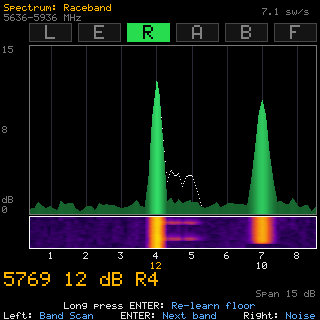
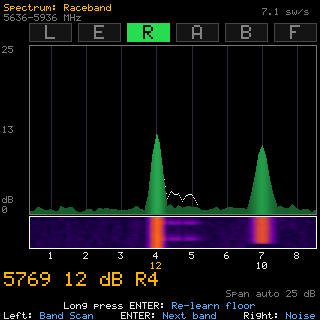
Span 25-50 with auto range by default, Auto Range page, span on every page (revision 102)
Span 25-50 dB (default 25) with Auto range On by default. New Auto Range
Configuration page: Auto range, Hold time and Drop step for how the scale
comes back down (never below the span). The span is shown on Activity,
Spectrum and Band Scan; with Auto range On as "Span auto 70 dB (min 25)".
Configuration title bars show the firmware revision. Screenshots regenerated.

Claude-Session: https://claude.ai/code/session_019ySrNfXnGwibRSQT1orRxf

diff --git a/FPV Channel Scanner/Settings.cpp b/FPV Channel Scanner/Settings.cpp
@@ -1,6 +1,6 @@
 /*
  * FPV Channel Scanner - Settings.cpp
- * Revision: 101
+ * Revision: 102
  *
  * User settings: the values, their limits and defaults, loading them from
  * flash at start-up and saving them, plus helpers that depend on them.
@@ -15,7 +15,7 @@
 
 // Defaults here must match the "def" column of the table below.
 Settings cfg = {
-  15,    // span
+  25,    // span
   4,     // learnSweeps
   3,     // gridSamples   (1 when RSSI only is Off)
   4,     // specStep
@@ -50,9 +50,11 @@ Settings cfg = {
   MAX_MHZ_OFF,  // maxMhz
   TUNE_WIFI,    // tuneMode
   16,           // rxFilterMhz
-  0,            // specAutoRange
+  1,            // specAutoRange
   BS_LBL_BAND,  // bsLabel
   1,            // restorePage
+  5,            // rangeHoldS
+  10,           // rangeDropDb
 };
 
 const SettingDef SETTINGS[] = {
@@ -80,14 +82,16 @@ const SettingDef SETTINGS[] = {
   { "Channel Selection", "IMD min spacing",     "imdSep",    &cfg.imdMinSep,    20,  80,  1, 37, 0, 0, " MHz", "Smallest gap allowed between channels in a set" },
   { "Channel Selection", "IMD use L band",      "imdLow",    &cfg.imdLowBand,    0,   1,  1,  0, 1, 0, "",     "Allow L1-L8 (not used with a video system)" },
   { "Channel Selection", "IMD refresh",   "imdRefresh", &cfg.imdRefreshS,     2,    60,    1,   10, 0, 0, " s",  "How often IMD-free sets are re-picked" },
-  { "Display", "Span",            "span",      &cfg.span,          5,  60,  5, 15, 0, 0, " dB",  "Activity full brightness, Spectrum height" },
-  { "Display", "Auto range",      "specAuto",  &cfg.specAutoRange, 0,  1,  1,  0, 1, 0, "",     "Activity, Spectrum, Band Scan fit peaks" },
+  { "Display", "Span",            "span",      &cfg.span,         25,  50,  5, 25, 0, 0, " dB",  "Activity full brightness, Spectrum height" },
   { "Display", "Peak labels",     "bsLabel",   &cfg.bsLabel,    BS_LBL_BAND, BS_LBL_BOTH, 1, BS_LBL_BAND, 0, 0, "", "Band Scan: label on peaks over Busy level" },
   { "Display", "Peak decay",      "peakDecay", &cfg.peakDecay10,   2, 100,  2, 18, 0, 1, " px",  "Spectrum: peak-hold dot fall per sweep" },
   { "Display", "Waterfall log",   "wfLog",     &cfg.wfLogK,        0,  20,  1,  8, 0, 0, "",     "Spectrum waterfall: 0 = linear, higher = log" },
   { "Display", "Shading gamma",   "gamma",     &cfg.gamma100,     20, 100,  5, 55, 0, 2, "",     "Noise grid: below 1 brightens small diffs" },
   { "Display", "Full red spread", "redSpread", &cfg.redSpread10,   1,  50,  1,  5, 0, 1, " dB",  "Noise grid: spread shown as full red" },
   { "Display", "Move fade",     "moveFade",   &cfg.moveFadeMs,      0, 10000,  250, 3000, 0, 0, " ms", "Quietest/IMD: red fade on a moved channel" },
+  { "Auto Range", "Auto range",   "specAuto",   &cfg.specAutoRange, 0,     1,    1,    1, 1, 0, "",    "Activity, Spectrum, Band Scan fit peaks" },
+  { "Auto Range", "Hold time",    "rangeHold",  &cfg.rangeHoldS,     1,    60,    1,    5, 0, 0, " s",  "No higher peak this long: scale drops" },
+  { "Auto Range", "Drop step",    "rangeDrop",  &cfg.rangeDropDb,    5,    50,    5,   10, 0, 0, " dB", "How far each drop is (stops at the span)" },
   { "Controls", "Long press",    "longPress",  &cfg.longPressMs,   300, 2000,  100,  700, 0, 0, " ms", "ENTER held this long = long press" },
   { "Controls", "Config hold",   "cfgHold",    &cfg.configHoldMs, 2000, 10000, 1000, 5000, 0, 0, " ms", "Left + Right held this long opens Configuration" },
   { "Controls", "Splash time",   "splashMs",   &cfg.splashMs,        0, 10000,  500, 5000, 0, 0, " ms", "How long the start-up splash shows (0 = none)" },
@@ -180,6 +184,7 @@ bool settingVisible(int i) {
   const int *v = SETTINGS[i].value;
   if (v == &cfg.hdzLowBand || v == &cfg.hdzE1F1) return cfg.vidSys == VS_HDZERO;
   if (v == &cfg.djiModel)    return cfg.vidSys == VS_DJI;
+  if (v == &cfg.rangeHoldS || v == &cfg.rangeDropDb) return cfg.specAutoRange;   // only with Auto range On
   if (v == &cfg.wsRace)      return cfg.vidSys == VS_WALKSNAIL;
   if (v == &cfg.fccChannels) return (cfg.vidSys == VS_DJI && cfg.djiModel != DJI_O4_RACE) ||
                                     (cfg.vidSys == VS_WALKSNAIL && !cfg.wsRace);

diff --git a/FPV Channel Scanner/Page Band Scan.cpp b/FPV Channel Scanner/Page Band Scan.cpp
@@ -1,6 +1,6 @@
 /*
  * FPV Channel Scanner - Page Band Scan.cpp
- * Revision: 101
+ * Revision: 102
  *
  * Band Scan page, modelled on the ArduVidRx band scanner: one sweep over
  * the whole 5.3-6.0 GHz band, measuring every FPV channel frequency plus
@@ -142,7 +142,7 @@ static void bsDrawAxis() {
 
 // Same vertical scale as the spectrum: the Span setting (bars above it clip
 // at the top), or with "Auto range" On at least the span, growing at once to
-// fit the highest bar and shrinking one step after SPEC_RANGE_HOLD_MS.
+// fit the highest bar and shrinking one step after "Hold time" (Auto Range page).
 // ---------------------------------------------------------------- waterfall
 // Same look as the Spectrum page's (shared colour ramp and "Waterfall log"
 // curve, scaled by the span): one row per sweep, newest on top, each bar's
@@ -167,6 +167,8 @@ static void wfDrawBs() {
   }
 }
 
+int bsRangeNow() { return bsRange; }
+
 static bool bsUpdateRange(float maxAbove) {
   int need = cfg.span;
   if (cfg.specAutoRange && maxAbove > need) need = min(SPEC_RANGE_MAX, ((int)ceilf(maxAbove / SPEC_RANGE_STEP)) * SPEC_RANGE_STEP);
@@ -174,11 +176,12 @@ static bool bsUpdateRange(float maxAbove) {
   int old = bsRange;
   if (!cfg.specAutoRange) bsRange = need;                // fixed at the span
   else if (need >= bsRange) { bsRange = need; bsRangeNeedMs = now; }
-  else if (now - bsRangeNeedMs >= SPEC_RANGE_HOLD_MS) {
-    bsRange = max(need, bsRange - SPEC_RANGE_STEP); bsRangeNeedMs = now;
+  else if (now - bsRangeNeedMs >= (uint32_t)cfg.rangeHoldS * 1000) {
+    bsRange = max(need, bsRange - cfg.rangeDropDb); bsRangeNeedMs = now;
   }
   if (bsRange == old) return false;
   bsDrawAxis();
+  drawSpanLabel();                                     // footer, bottom right
   return true;
 }
 
@@ -309,6 +312,7 @@ static void bsDrawFooter(int peakPt, float aboveDb) {
   snprintf(s, sizeof(s), "Peak: %s%s%u MHz %d dB", names, names[0] ? " " : "",
            bsMhz[peakPt], (int)lroundf(aboveDb));
   lcdText(4, BS_FOOT_Y + 2, s, 2, C_ACC, C_BG);
+  drawSpanLabel();                                     // bottom right, as on Activity and Spectrum
 }
 
 // True if the frequency is a channel (not a fill-in point): one of the

diff --git a/FPV Channel Scanner/Page Activity.cpp b/FPV Channel Scanner/Page Activity.cpp
@@ -1,6 +1,6 @@
 /*
  * FPV Channel Scanner - Page Activity.cpp
- * Revision: 101
+ * Revision: 102
  *
  * FPV Channel Activity page (the live grid) and the grid sweep that
  * also feeds the Channel Noise and Quietest Channels pages.
@@ -52,6 +52,10 @@ void gridDrawFooter(int pb, int pc, float aboveDb) {
   }
   drawSpanLabel();
 }
+
+static int      gridRange = 0;          // Activity brightness scale top, dB (span, or auto range)
+static uint32_t gridRangeNeedMs = 0;
+int gridRangeNow() { return gridRange; }
 
 // One full grid sweep + redraw of changed cells.
 // Runs on the GRID and ACTIVITY pages; both share the measurement and floor.
@@ -137,17 +141,18 @@ void gridSweep() {
 
   // Brightness scale: the span, or with "Auto range" On at least the span,
   // growing at once to fit the strongest box (rounded up to 10 dB) and
-  // shrinking one step after SPEC_RANGE_HOLD_MS, as on the Spectrum page.
-  static int gridRange = 0;
-  static uint32_t gridRangeNeedMs = 0;
-  { int need = cfg.span;
+  // shrinking one step after "Hold time" (Auto Range page), as on the Spectrum page.
+  { int before = gridRange;
+    int need = cfg.span;
     if (cfg.specAutoRange && !learning && best > need)
       need = min(SPEC_RANGE_MAX, ((int)ceilf(best / SPEC_RANGE_STEP)) * SPEC_RANGE_STEP);
     uint32_t now = millis();
     if (!cfg.specAutoRange || need >= gridRange) { gridRange = need; gridRangeNeedMs = now; }
-    else if (now - gridRangeNeedMs >= SPEC_RANGE_HOLD_MS) {
-      gridRange = max(need, gridRange - SPEC_RANGE_STEP); gridRangeNeedMs = now;
-    } }
+    else if (now - gridRangeNeedMs >= (uint32_t)cfg.rangeHoldS * 1000) {
+      gridRange = max(need, gridRange - cfg.rangeDropDb); gridRangeNeedMs = now;
+    }
+    if (gridRange != before && mode == MODE_GRID && !learning) drawSpanLabel();   // footer shows it
+  }
 
   for (int b = 0; b < NUM_BANDS; b++)
     for (int c = 0; c < NUM_CH; c++) {

diff --git a/FPV Channel Scanner/Config.h b/FPV Channel Scanner/Config.h
@@ -1,6 +1,6 @@
 /*
  * FPV Channel Scanner - Config.h
- * Revision: 101
+ * Revision: 102
  *
  * Hardware pins, tuning constants, shared types, frequency table, colors
  * and the undocumented ESP32-C5 radio access used by the scanner.
@@ -10,7 +10,7 @@
 
 // Firmware revision shown on the Save / Discard page. Keep it equal to the
 // "Revision:" line in the file headers.
-#define FW_REVISION 101
+#define FW_REVISION 102
 
 #include <Arduino.h>
 #include <Wire.h>
@@ -73,6 +73,8 @@ struct Settings {
   int specAutoRange; // Spectrum graph height grows to fit peaks (Off = fixed at the span)
   int bsLabel;       // Band Scan peak labels: BS_LBL_BAND, BS_LBL_MHZ or BS_LBL_BOTH
   int restorePage;   // start on the last page shown (Off = Activity grid)
+  int rangeHoldS;    // auto range: no higher peak for this long (s) -> the scale drops a step
+  int rangeDropDb;   // auto range: how far each drop is (dB), never below the span
 };
 
 // One line in the Configuration menu (Settings.cpp)
@@ -295,8 +297,7 @@ extern "C" void     phy_i2c_writeReg(unsigned block, unsigned host, unsigned reg
 #define WF_H      31                 // waterfall height (px) = sweeps of history
 #define C_BLOCKED  RGB{ 28, 28, 28 }   // spectrum columns above "Max MHz"
 #define SPEC_RANGE_STEP    10        // spectrum auto range: rounded up to this (dB)...
-#define SPEC_RANGE_MAX     100       // ...never above this...
-#define SPEC_RANGE_HOLD_MS 5000      // ...and shrinks one step after this long without needing it
+#define SPEC_RANGE_MAX     100       // ...never above this; it drops by "Drop step" after "Hold time" (Auto Range page)
 #define WF_Y      (GY + GH + 3)      // waterfall top, inside its white box under the graph
 #define CH_LBL_Y  (WF_Y + WF_H + 4)  // channel numbers under the waterfall box
 #define CH_VAL_Y  (CH_LBL_Y + 10)    // channel dB values under the numbers

diff --git a/FPV Channel Scanner/Page Spectrum.cpp b/FPV Channel Scanner/Page Spectrum.cpp
@@ -1,6 +1,6 @@
 /*
  * FPV Channel Scanner - Page Spectrum.cpp
- * Revision: 101
+ * Revision: 102
  *
  * Spectrum page: continuous sweep across one band in SPEC_STEP_MHZ
  * steps, with channel markers, values and band buttons. The sweep point
@@ -79,7 +79,7 @@ static void wfDraw() {
 
 // Graph top (dB above floor): the Span setting, or with "Auto range" On at least the span;
 // grows at once to fit the highest point (rounded up to SPEC_RANGE_STEP), and
-// after SPEC_RANGE_HOLD_MS without needing that much, shrinks one step at a
+// after "Hold time" (Auto Range page) without needing that much, shrinks one step at a
 // time. The waterfall keeps the fixed Span so its colours stay comparable.
 static int      specRange = 0;
 static uint32_t specRangeNeedMs = 0;
@@ -103,14 +103,17 @@ static bool specUpdateRange(float maxAbove) {
   int old = specRange;
   if (!cfg.specAutoRange) specRange = need;              // fixed at the span; peaks clip at the top
   else if (need >= specRange) { specRange = need; specRangeNeedMs = now; }
-  else if (now - specRangeNeedMs >= SPEC_RANGE_HOLD_MS) {
-    specRange = max(need, specRange - SPEC_RANGE_STEP); specRangeNeedMs = now;
+  else if (now - specRangeNeedMs >= (uint32_t)cfg.rangeHoldS * 1000) {
+    specRange = max(need, specRange - cfg.rangeDropDb); specRangeNeedMs = now;
   }
   if (specRange == old) return false;
   for (int x = 0; x < GW; x++) colPeak[x] = colPeak[x] * old / specRange;
   specDrawAxis();
+  drawSpanLabel();                                     // footer: "Span auto 70 dB (min 50)"
   return true;
 }
+
+int specRangeNow() { return specRange; }
 
 int freqToCol(float mhz) {
   return (int)lroundf((mhz - specLo) * (GW - 1) / (float)(specHi - specLo));

diff --git a/FPV Channel Scanner/Screen Common.cpp b/FPV Channel Scanner/Screen Common.cpp
@@ -1,6 +1,6 @@
 /*
  * FPV Channel Scanner - Screen Common.cpp
- * Revision: 101
+ * Revision: 102
  *
  * Drawing shared by several pages (grid frame, Scanning dots, span /
  * history label, learning progress, title status), the pop-up, and
@@ -57,16 +57,25 @@ void drawScanning(int y) {
   updateScanDots();
 }
 
-// "SPAN nndB" at the bottom right; same screen position on both pages.
+// Bottom right of the footer: the span on the pages that use it (Activity,
+// Band Scan, Spectrum), the noise history time on Noise / Quietest / IMD-Free.
+// With Auto range On: "Span auto 70 dB (min 50)" while the scale is above
+// the span setting, "Span auto 50 dB" at it.
 void drawSpanLabel() {
   char s[64];
   if (mode == MODE_ACTIVITY || quietPage()) {
     // D:HH:MM:SS; fixed width (up to 9 days) so no leftovers when it changes
     unsigned long t = (unsigned long)actTrackedS;
     snprintf(s, sizeof(s), "History %lu:%02lu:%02lu:%02lu", t / 86400, t / 3600 % 24, t / 60 % 60, t % 60);
+  } else {
+    int now = mode == MODE_GRID ? gridRangeNow() : mode == MODE_SPECTRUM ? specRangeNow() : bsRangeNow();
+    if (now < cfg.span) now = cfg.span;
+    char t[40];
+    if (!cfg.specAutoRange) snprintf(t, sizeof(t), "Span %d dB", cfg.span);
+    else if (now > cfg.span) snprintf(t, sizeof(t), "Span auto %d dB (min %d)", now, cfg.span);
+    else snprintf(t, sizeof(t), "Span auto %d dB", now);
+    snprintf(s, sizeof(s), "%24s", t);             // fixed width: no leftovers when it shortens
   }
-  else if (cfg.specAutoRange) snprintf(s, sizeof(s), "Span auto");   // "Auto range" On
-  else snprintf(s, sizeof(s), "Span %d dB", cfg.span);
   lcdText(LCD_W - 6 * (int)strlen(s) - 4, FOOT_Y + 20, s, 1, C_DIM, C_BG);
 }
 

diff --git a/FPV Channel Scanner/Config Menu.cpp b/FPV Channel Scanner/Config Menu.cpp
@@ -1,6 +1,6 @@
 /*
  * FPV Channel Scanner - Config Menu.cpp
- * Revision: 101
+ * Revision: 102
  *
  * Configuration menu, opened by holding KEY_L + KEY_R for CONFIG_HOLD_MS on
  * any page.
@@ -146,7 +146,14 @@ static void drawMenuHeader(int item, const Settings &saved) {
   lcdFillC(0, 26, LCD_W, 24, C_HDZ);
   char title[40];
   snprintf(title, sizeof(title), "%s Page", itemPage(item));   // e.g. "Help Page"
-  lcdText(8, 30, title, 2, RGB{ 255, 255, 255 }, C_HDZ);
+  snprintf(s, sizeof(s), "Rev %d", FW_REVISION);              // firmware revision, right end of the bar
+  const int revX = LCD_W - 6 * (int)strlen(s) - 4;
+  lcdText(revX, 34, s, 1, RGB{ 255, 255, 255 }, C_HDZ);
+  // Title; drawn narrower when it would run into the revision
+  // ("Channel Selection Page")
+  const int len = (int)strlen(title), room = revX - 8 - 6;
+  if (12 * len <= room) lcdText(8, 30, title, 2, RGB{ 255, 255, 255 }, C_HDZ);
+  else lcdTextSized(8, 30, title, room / len, 16, RGB{ 255, 255, 255 }, C_HDZ);
 }
 
 static void drawMenuRow(int item, int row, bool selected, bool editing) {

diff --git a/FPV Channel Scanner/Scanner.h b/FPV Channel Scanner/Scanner.h
@@ -1,6 +1,6 @@
 /*
  * FPV Channel Scanner - Scanner.h
- * Revision: 101
+ * Revision: 102
  *
  * Shared declarations: every global variable (defined in State.cpp) and
  * every function, grouped by the file that defines it. Each .cpp file
@@ -172,6 +172,9 @@ void drawNoDataBox(int x, int y, int b, int c);   // grid box for a channel with
 void updateScanDots();
 void drawScanning(int y);
 void drawSpanLabel();
+int gridRangeNow();               // current scale top (dB) of the Activity grid...
+int specRangeNow();               // ...the Spectrum graph...
+int bsRangeNow();                 // ...and the Band Scan graph (the span, or more with Auto range)
 void drawLearnProgress(int footY, int pct);
 void drawTitleStatus(float sweepsPerSec, bool learning);
 ScreenMode pageAfter(ScreenMode m, int dir);

diff --git a/FPV Channel Scanner/Splash Image.h b/FPV Channel Scanner/Splash Image.h
@@ -1,6 +1,6 @@
 /*
  * FPV Channel Scanner - Splash Image.h
- * Revision: 101
+ * Revision: 102
  *
  * Generated from FPV Channel Scanner/Splash.PNG by tools/Make Splash Header.py - do not edit.
  * 320 x 320, 256-colour palette (R, G, B), one index byte per pixel.

diff --git a/FPV Channel Scanner/Page Quietest.cpp b/FPV Channel Scanner/Page Quietest.cpp
@@ -1,6 +1,6 @@
 /*
  * FPV Channel Scanner - Page Quietest.cpp
- * Revision: 101
+ * Revision: 102
  *
  * Quietest Channels and Quietest for HDZero pages: the QUIET_LIST_N
  * quietest channels from the Channel Noise history, in two columns of 8:

diff --git a/FPV Channel Scanner/Display.cpp b/FPV Channel Scanner/Display.cpp
@@ -1,6 +1,6 @@
 /*
  * FPV Channel Scanner - Display.cpp
- * Revision: 101
+ * Revision: 102
  *
  * ILI9488 320x320 LCD driver (SPI, 18-bit color) on ESP-IDF's esp_lcd
  * panel IO, text drawing with the 5x7 font, and the CH32V003 IO expander

diff --git a/FPV Channel Scanner/Input.cpp b/FPV Channel Scanner/Input.cpp
@@ -1,6 +1,6 @@
 /*
  * FPV Channel Scanner - Input.cpp
- * Revision: 101
+ * Revision: 102
  *
  * KEY_L / KEY_R / ENTER button polling. Called often, including from inside
  * the radio sweeps, so presses are caught while a sweep is running.
